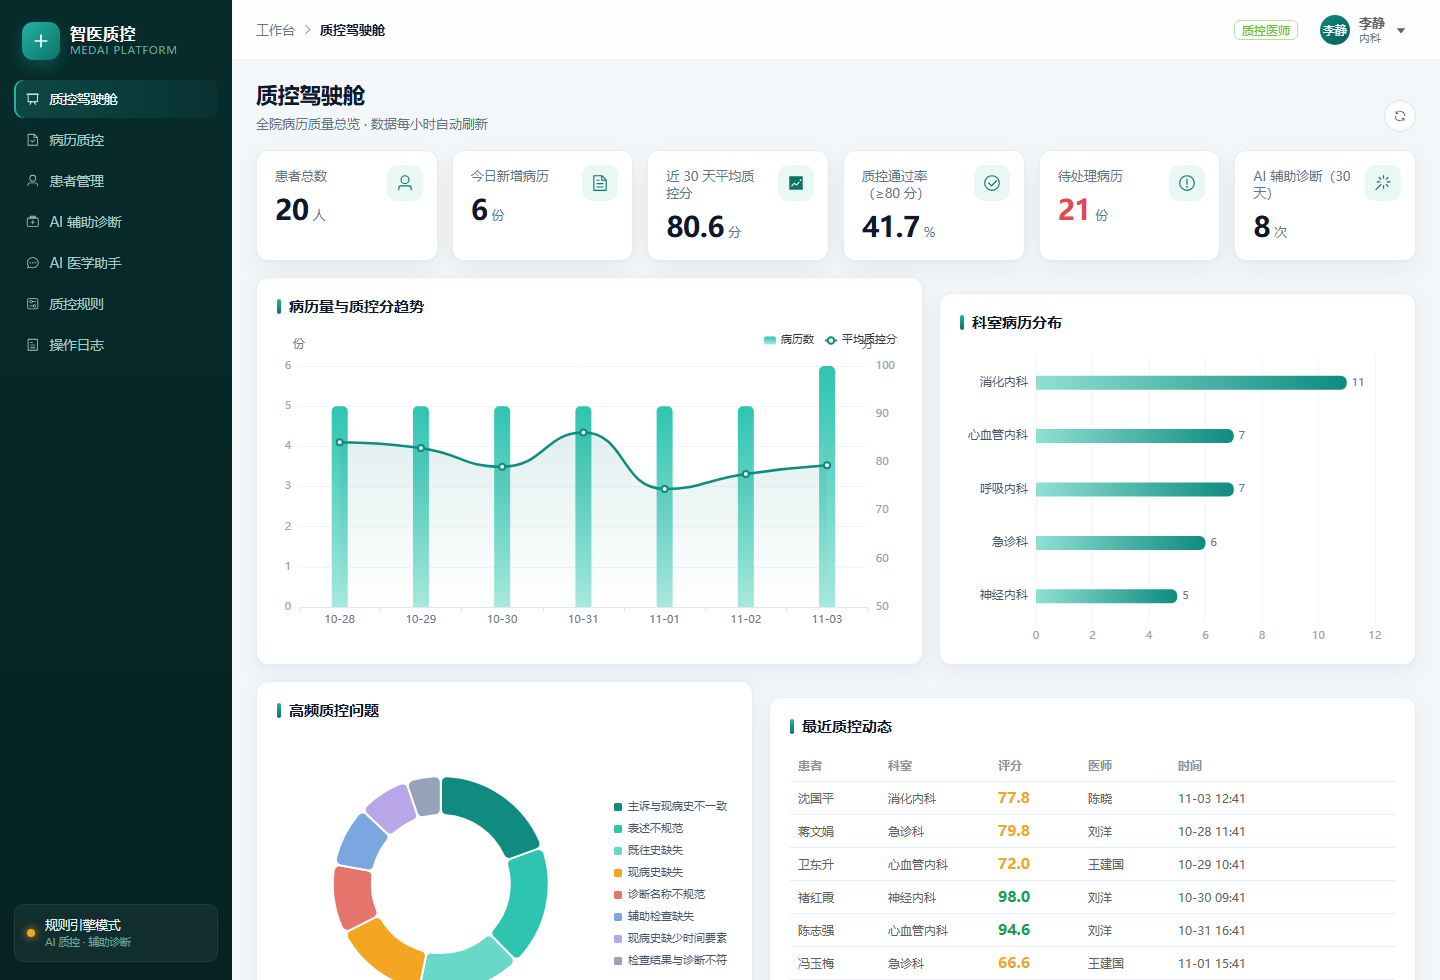
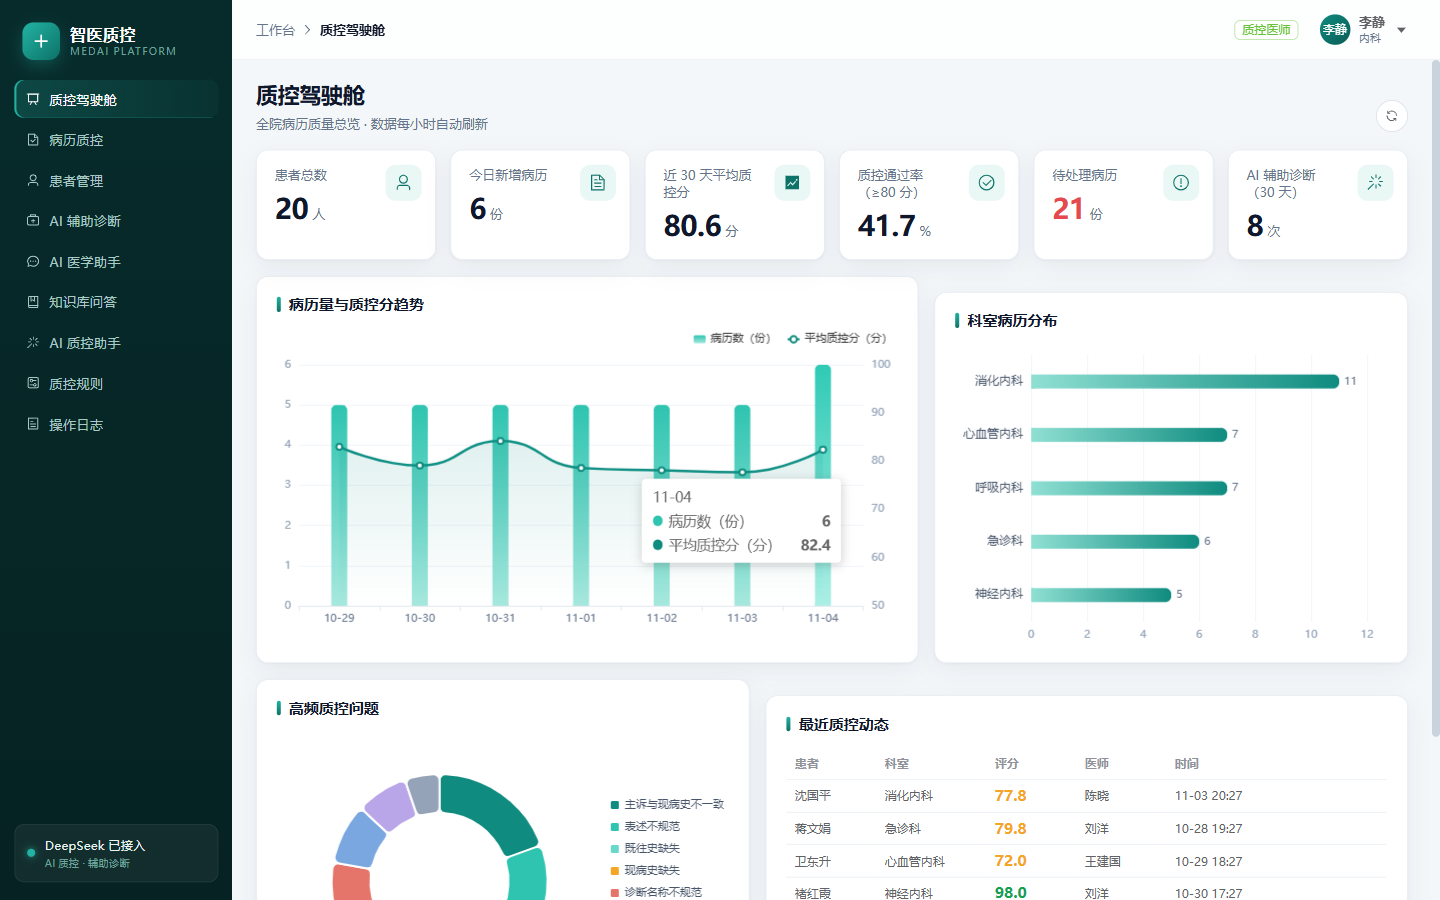
fix(web): 修复趋势图图例与 Y 轴单位重叠
- 去掉 yAxis 的 name（份/分），单位并入图例文案「病历数（份）」「平均质控分（分）」
- 同步更新 README 驾驶舱截图

diff --git a/web/src/views/DashboardView.vue b/web/src/views/DashboardView.vue
@@ -125,20 +125,20 @@ async function load() {
   const trendChart = getChart(trendRef.value);
   trendChart?.setOption({
     tooltip: { trigger: 'axis' },
-    legend: { data: ['病历数', '平均质控分'], right: 0, top: 0, itemWidth: 12, itemHeight: 8, textStyle: { fontSize: 11 } },
+    legend: { data: ['病历数（份）', '平均质控分（分）'], right: 0, top: 0, itemWidth: 12, itemHeight: 8, textStyle: { fontSize: 11 } },
     grid: { left: 8, right: 8, top: 36, bottom: 4, containLabel: true },
     xAxis: { type: 'category', data: trend.map((t) => t.date), axisLine: { lineStyle: { color: '#e2e8f0' } }, axisLabel: { color: '#64748b', fontSize: 11 } },
     yAxis: [
-      { type: 'value', name: '份', splitLine: { lineStyle: { color: '#f1f5f9' } }, axisLabel: { color: '#94a3b8', fontSize: 11 } },
-      { type: 'value', name: '分', min: 50, max: 100, splitLine: { show: false }, axisLabel: { color: '#94a3b8', fontSize: 11 } },
+      { type: 'value', splitLine: { lineStyle: { color: '#f1f5f9' } }, axisLabel: { color: '#94a3b8', fontSize: 11 } },
+      { type: 'value', min: 50, max: 100, splitLine: { show: false }, axisLabel: { color: '#94a3b8', fontSize: 11 } },
     ],
     series: [
       {
-        name: '病历数', type: 'bar', barWidth: 16, data: trend.map((t) => t.records),
+        name: '病历数（份）', type: 'bar', barWidth: 16, data: trend.map((t) => t.records),
         itemStyle: { borderRadius: [5, 5, 0, 0], color: new echarts.graphic.LinearGradient(0, 0, 0, 1, [{ offset: 0, color: '#2ec4b0' }, { offset: 1, color: '#a7e8de' }]) },
       },
       {
-        name: '平均质控分', type: 'line', yAxisIndex: 1, smooth: true, symbolSize: 6,
+        name: '平均质控分（分）', type: 'line', yAxisIndex: 1, smooth: true, symbolSize: 6,
         data: trend.map((t) => t.avgScore ?? 0),
         lineStyle: { width: 2.5, color: '#0f8b7f' },
         itemStyle: { color: '#0f8b7f' },
